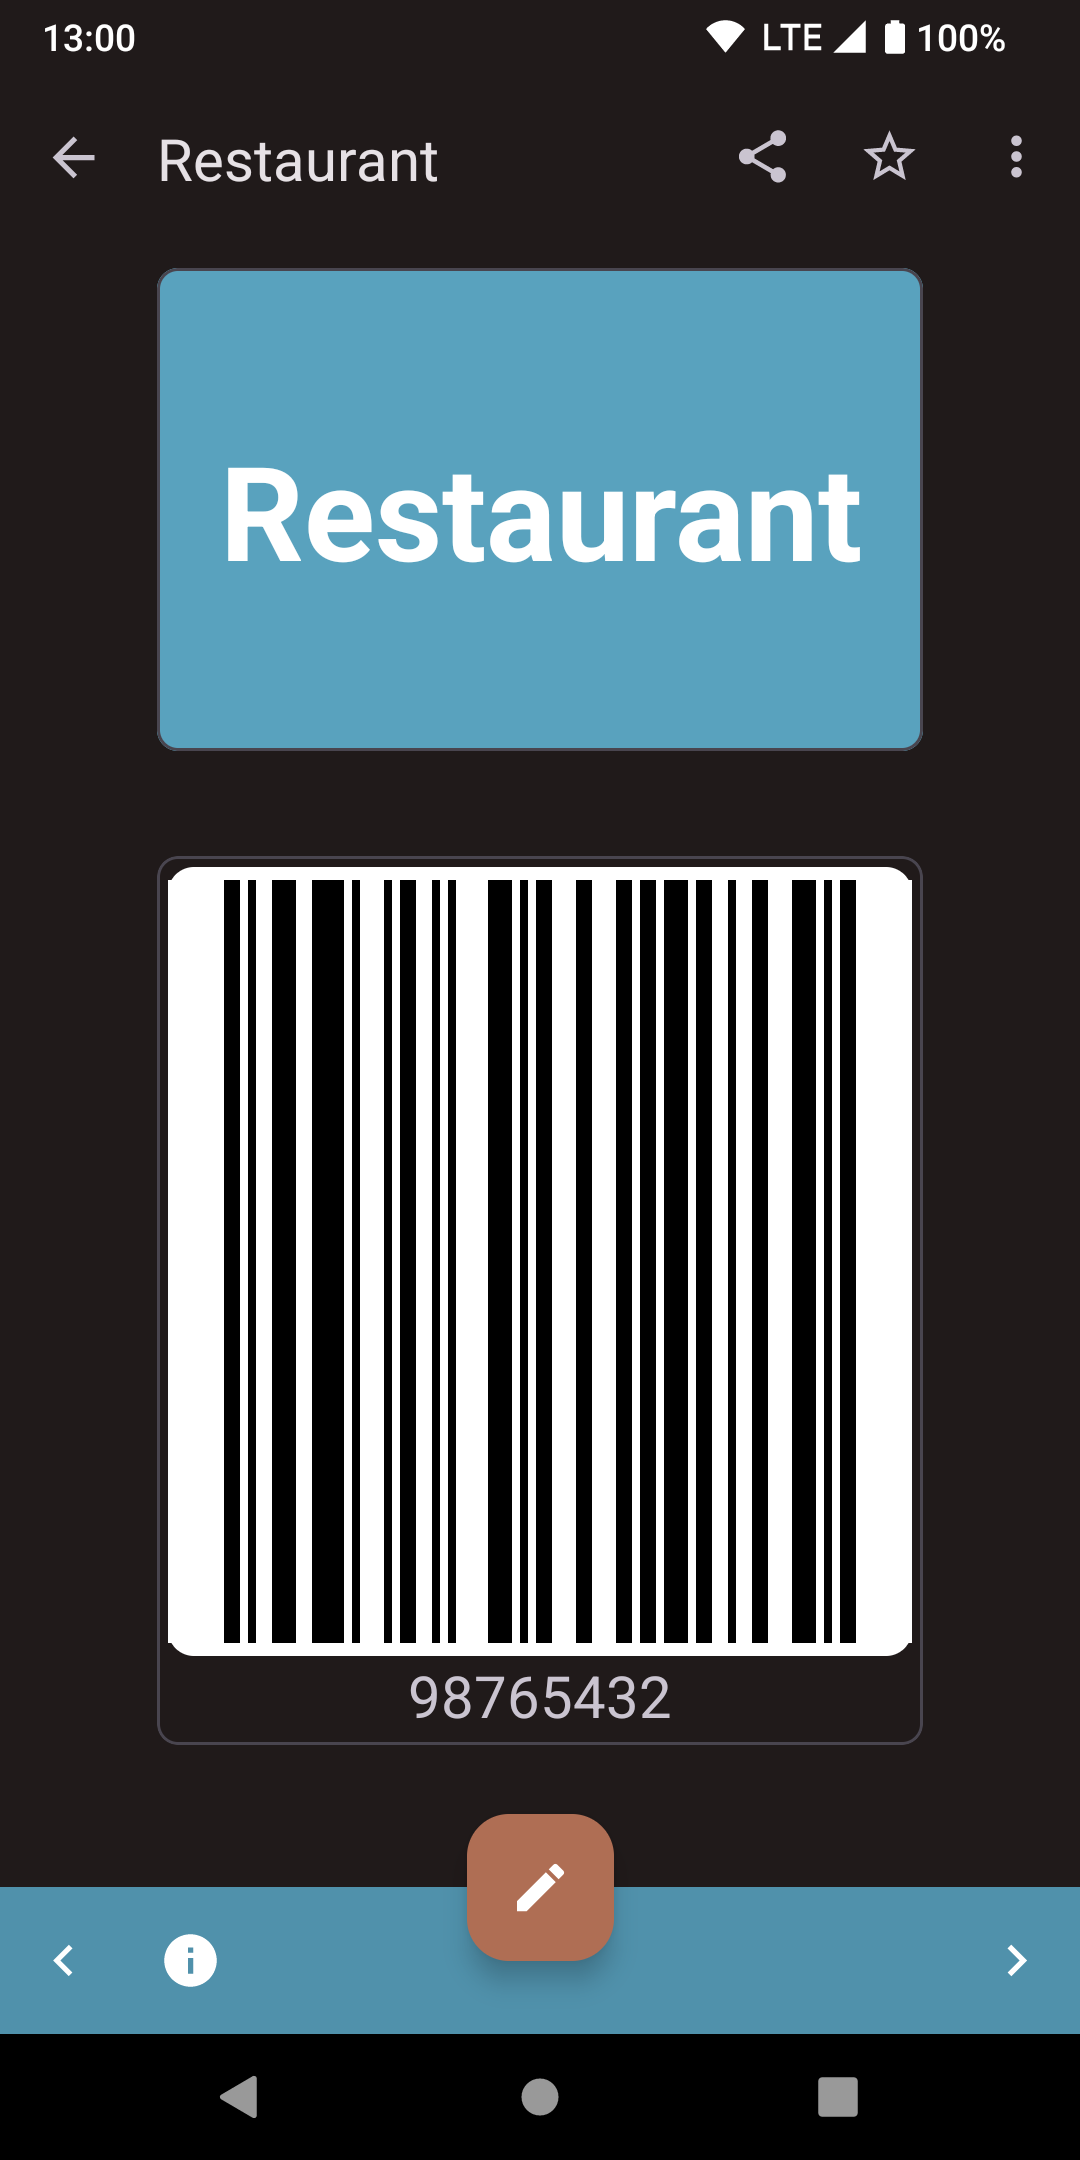
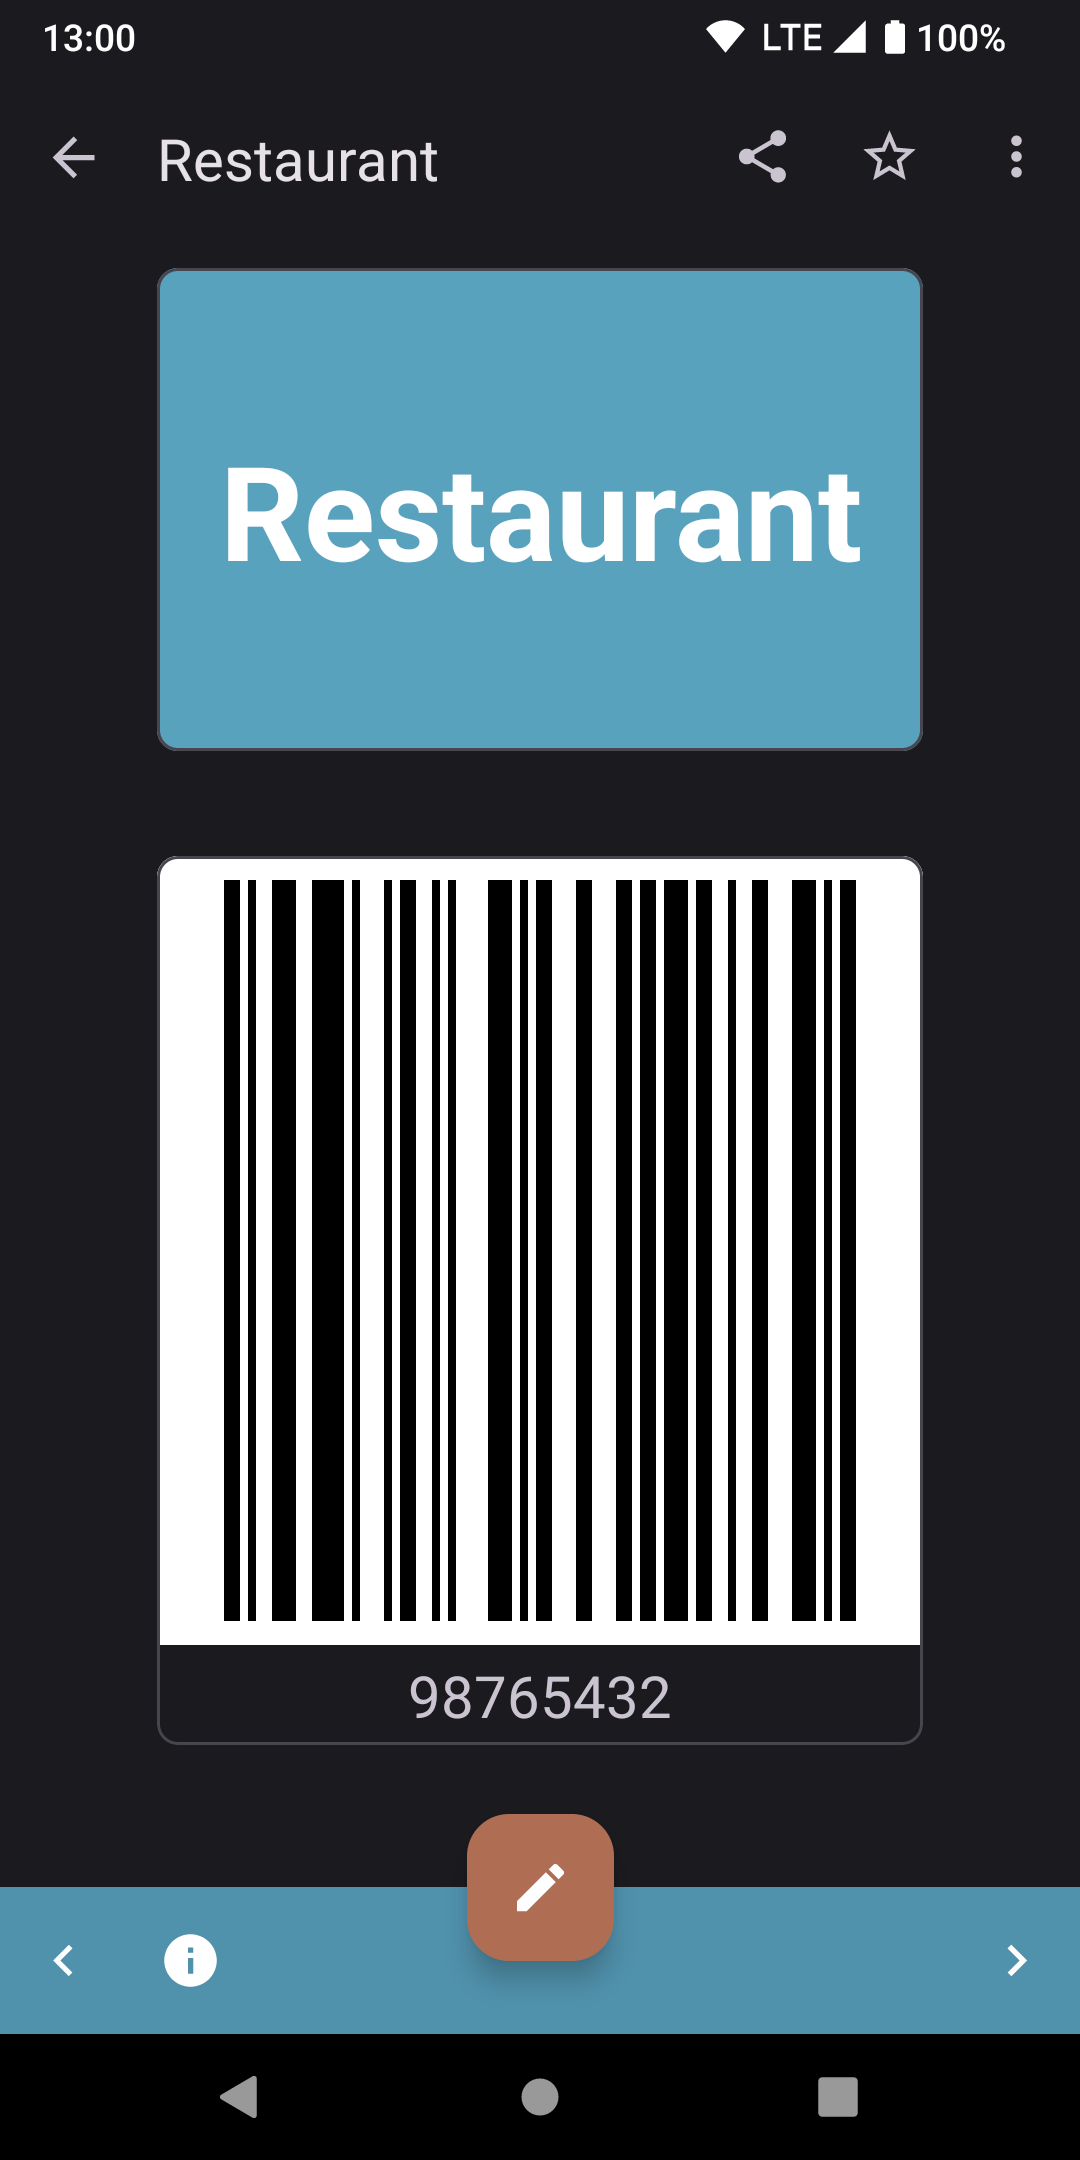
Fix dark mode rendering glitch

Changed region(s): [[0.1222, 0.3722, 0.8556, 0.7755]]

diff --git a/app/src/main/java/protect/card_locker/LoyaltyCardViewActivity.java b/app/src/main/java/protect/card_locker/LoyaltyCardViewActivity.java
@@ -879,12 +879,8 @@ public class LoyaltyCardViewActivity extends CatimaAppCompatActivity implements 
         ImageType wantedImageType = imageTypes.get(index);
 
         if (wantedImageType == ImageType.BARCODE) {
-            // Use border in non-fullscreen mode
-            if (!isFullscreen) {
-                barcodeRenderTarget.setBackground(AppCompatResources.getDrawable(this, R.drawable.round_outline));
-            } else {
-                barcodeRenderTarget.setBackgroundColor(Color.WHITE);
-            }
+            barcodeRenderTarget.setBackgroundColor(Color.WHITE);
+            binding.mainImageBackground.setBackgroundColor(Color.WHITE);
 
             if (waitForResize) {
                 redrawBarcodeAfterResize(!isFullscreen);
@@ -896,10 +892,12 @@ public class LoyaltyCardViewActivity extends CatimaAppCompatActivity implements 
         } else if (wantedImageType == ImageType.IMAGE_FRONT) {
             barcodeRenderTarget.setImageBitmap(frontImageBitmap);
             barcodeRenderTarget.setBackgroundColor(Color.TRANSPARENT);
+            binding.mainImageBackground.setBackgroundColor(Color.TRANSPARENT);
             barcodeRenderTarget.setContentDescription(getString(R.string.frontImageDescription));
         } else if (wantedImageType == ImageType.IMAGE_BACK) {
             barcodeRenderTarget.setImageBitmap(backImageBitmap);
             barcodeRenderTarget.setBackgroundColor(Color.TRANSPARENT);
+            binding.mainImageBackground.setBackgroundColor(Color.TRANSPARENT);
             barcodeRenderTarget.setContentDescription(getString(R.string.backImageDescription));
         } else {
             throw new IllegalArgumentException("Unknown image type: " + wantedImageType);
